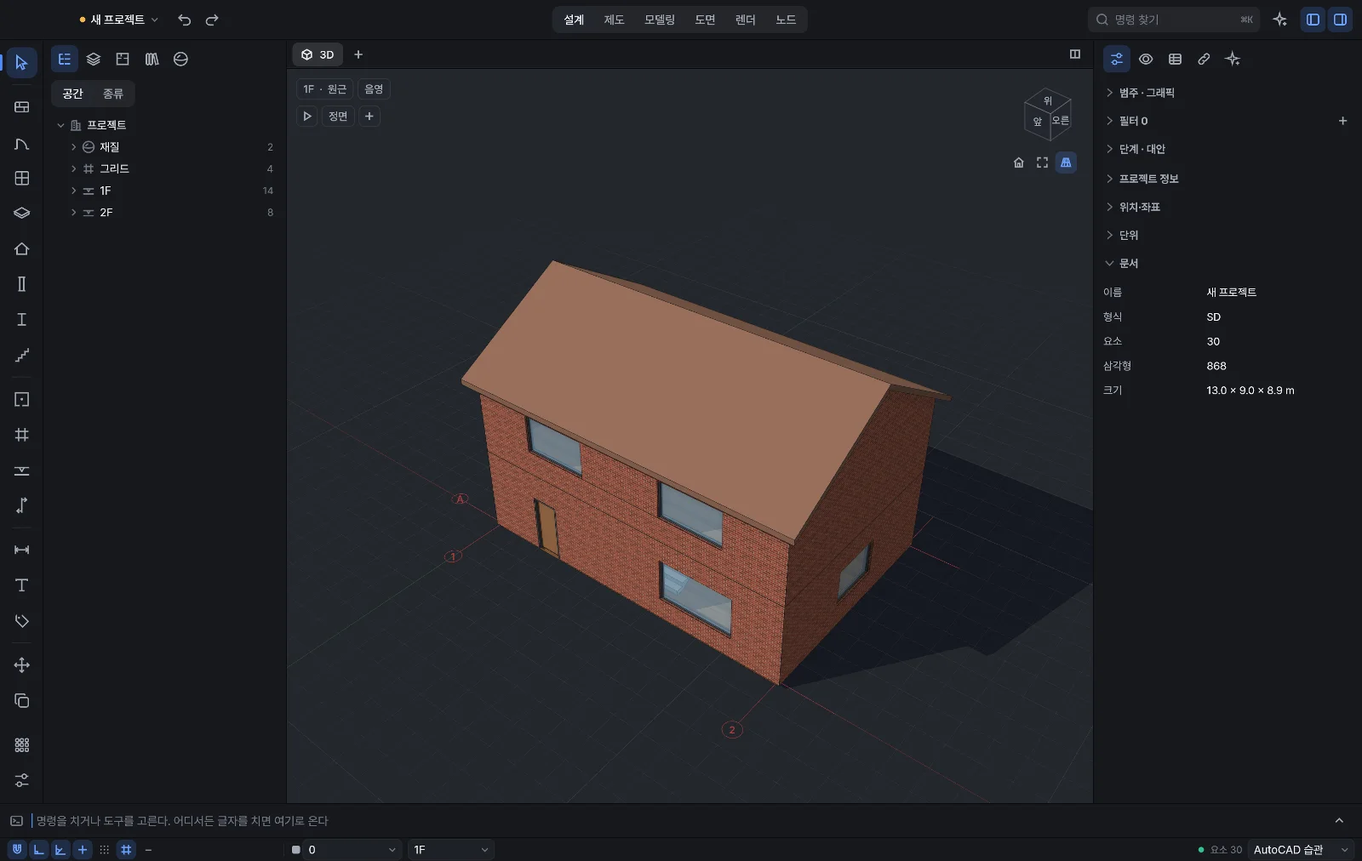
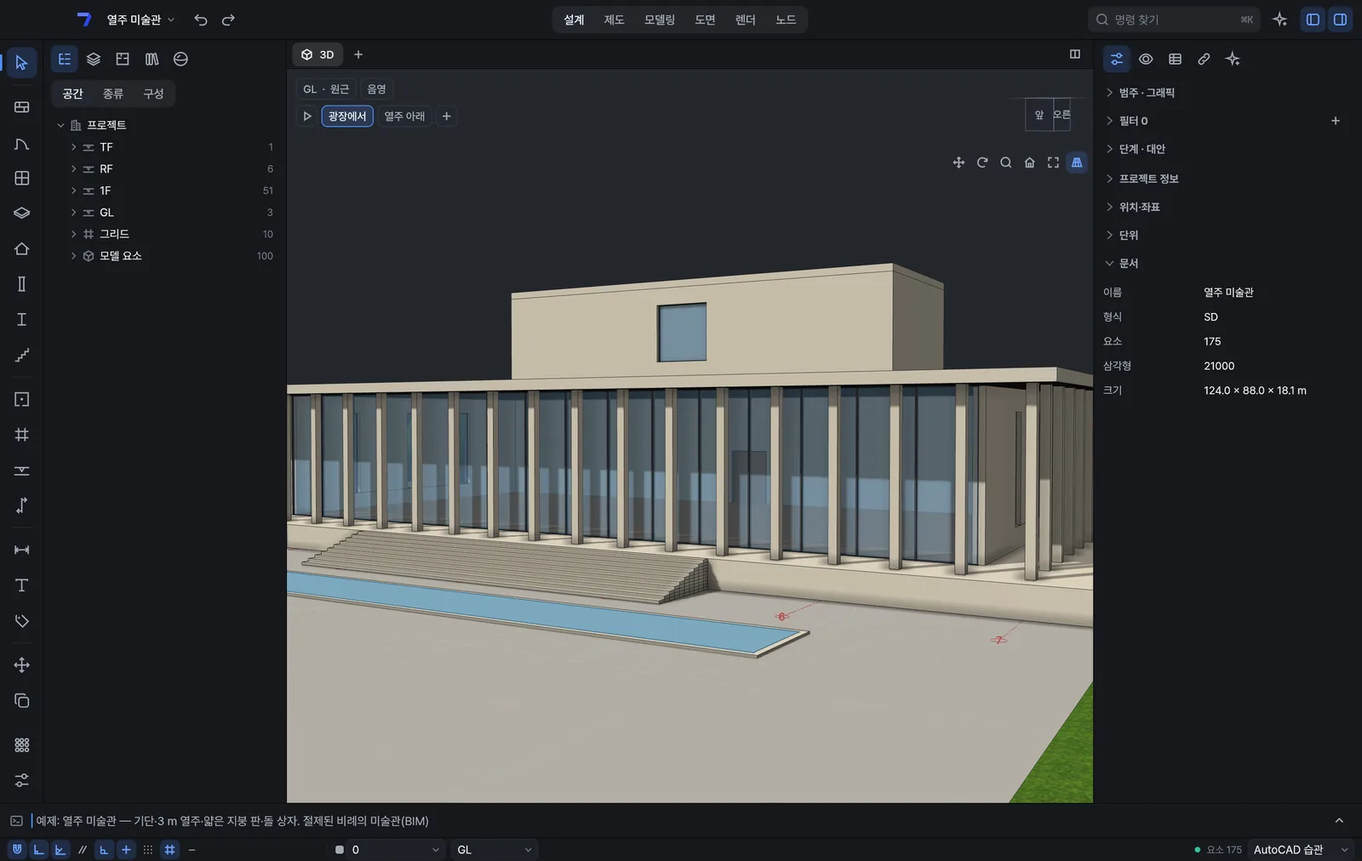
HyperSeven Office 서버 설정·홈페이지 (2026-11-09)

diff --git a/ja/cad.html b/ja/cad.html
@@ -7,10 +7,10 @@
   <meta name="viewport" content="width=device-width, initial-scale=1" />
   <meta name="color-scheme" content="light" />
   <meta name="theme-color" content="#ffffff" />
-  <title>HyperSeven CAD — 5つのソフトの代わりに、みんなのCADをひとつ（開発中）</title>
+  <title>HyperSeven CAD — 5つのソフトの代わりに、みんなのCADをひとつ（プレビュー）</title>
   <meta name="description" content="AutoCAD・SketchUp・Rhino・Revit・Archicadの作業とファイルを、ひとつのモデルで。誰でも無料で使える建築設計ツールになるHyperSeven CADを、いち早くご覧ください。" />
   <meta property="og:site_name" content="HyperSeven Labs" />
-  <meta property="og:title" content="HyperSeven CAD — 5つのソフトの代わりに、みんなのCADをひとつ（開発中）" />
+  <meta property="og:title" content="HyperSeven CAD — 5つのソフトの代わりに、みんなのCADをひとつ（プレビュー）" />
   <meta property="og:description" content="AutoCAD・SketchUp・Rhino・Revit・Archicadの作業とファイルを、ひとつのモデルで。誰でも無料で使える建築設計ツールになるHyperSeven CADを、いち早くご覧ください。" />
   <meta property="og:image" content="https://hyperseven.pages.dev/assets/og-ja.png" />
   <meta property="og:type" content="website" />
@@ -46,10 +46,22 @@
 <main>
     <section class="phero cad">
       <div class="wrap">
-        <div class="ptitle"><img src="../assets/brand/icon-cad.svg" alt="" width="60" height="60" /><div><b>HyperSeven CAD</b><span>図面 · 3D · 曲面 · ノード · BIM</span></div><span class="tag dev"><span class="dot"></span>開発中</span></div>
+        <div class="ptitle"><img src="../assets/brand/icon-cad.svg" alt="" width="60" height="60" /><div><b>HyperSeven CAD</b><span>図面 · 3D · 曲面 · ノード · BIM</span></div><span class="tag dev"><span class="dot"></span>プレビュー 0.1.0</span></div>
         <h1>5つのソフトの代わりに、<br />みんなのCADをひとつ<span class="blue">。</span></h1>
         <p class="lead">AutoCAD・SketchUp・Rhino・Revit・Archicadを行き来していた作業が、ひとつのモデルでつながります。図面からマス・曲面・ノード・BIMまで、誰でも無料で。</p>
-        <p class="draft">開発中の画面です。公開までに変わることがあります。</p>
+        <div class="get">
+          <div class="get-btns">
+            <div class="get-win get-mac">
+              <a class="btn os" href="https://github.com/dongyoun/hyperseven-cad/releases/download/v0.1.0/HyperSeven-CAD-0.1.0-arm64.dmg">
+                <svg viewBox="0 0 24 24" fill="none" stroke="currentColor" stroke-width="2" stroke-linecap="round" stroke-linejoin="round" aria-hidden="true"><path d="M12 3v12" /><path d="m7 10 5 5 5-5" /><path d="M4 19h16" /></svg>
+                <span>Mac用をダウンロード<small>0.1.0 プレビュー · 73MB</small></span>
+              </a>
+              <a class="get-exe" href="https://github.com/dongyoun/hyperseven-cad/releases/download/v0.1.0/HyperSeven-CAD-0.1.0-arm64.zip">.zipでダウンロード</a>
+            </div>
+          </div>
+          <p class="get-note">無料 · Apple Silicon搭載Mac · Appleの公証済みですぐに開けます · <a href="https://github.com/dongyoun/hyperseven-cad/releases">すべてのリリース</a></p>
+        </div>
+        <p class="draft">プレビュー版です。直しながら新しい版をこまめに出します。使いにくい点はアプリの <kbd>⌘⇧F</kbd> か <a href="https://github.com/dongyoun/hyperseven-cad/issues">GitHub</a> へ。</p>
       </div>
     </section>
 
@@ -90,19 +102,37 @@
     <section class="sec">
       <div class="wrap">
         <div class="sec-head">
-          <div class="kicker blue">開発中の画面</div>
+          <div class="kicker blue">プレビューの画面</div>
           <h2>図面はモデルから生まれる</h2>
-          <p>サンプルの家で見る、3D・平面図・コマンド検索。</p>
+          <p>サンプルで見る、3D・図面シート・コマンド検索。スタート画面の「サンプルを見る」から開けます。</p>
         </div>
-        <div class="window dark"><div class="bar"><i></i><i></i><i></i></div><img src="../assets/shots/cad-3d.webp" alt="HyperSeven CADの3D画面 — 切妻屋根のれんがの家と影、左に階の一覧、右にプロパティ" loading="lazy" width="1600" height="1012" /></div>
+        <div class="window dark"><div class="bar"><i></i><i></i><i></i></div><img src="../assets/shots/cad-3d.webp" alt="HyperSeven CADの3D画面 — 基壇の上に3 m間隔の列柱と薄い屋根スラブの美術館サンプル、左に階の一覧、右にプロパティ" loading="lazy" width="1600" height="1012" /></div>
         <div class="gallery" style="margin-top: 28px">
           <figure>
-            <div class="window dark"><div class="bar"><i></i><i></i><i></i></div><img src="../assets/shots/cad-plan.webp" alt="1階平面図 1:100 — 寸法、通り芯、室面積、建具記号がついたサンプルの家" loading="lazy" width="1600" height="1012" /></div>
-            <figcaption>1階平面図 1:100。寸法や建具記号、室面積はモデルから自動でつきます。</figcaption>
+            <div class="window dark"><div class="bar"><i></i><i></i><i></i></div><img src="../assets/shots/cad-plan.webp" alt="美術館サンプルのA1シート — 1階平面図・断面図・南と東の立面図" loading="lazy" width="1600" height="1012" /></div>
+            <figcaption>A1シート1枚に平面・断面・立面。モデルを直すと図面がついてきます。</figcaption>
           </figure>
           <figure>
             <div class="window dark"><div class="bar"><i></i><i></i><i></i></div><img src="../assets/shots/cad-palette.webp" alt="コマンド検索 — 壁に関するコマンドが英語名とショートカット付きで並ぶ" loading="lazy" width="1600" height="1012" /></div>
             <figcaption>コマンド検索 <kbd>⌘K</kbd>。韓国語でも英語のコマンド名でも探せます。</figcaption>
+          </figure>
+        </div>
+        <div class="gallery" style="margin-top: 28px">
+          <figure>
+            <div class="window dark"><div class="bar"><i></i><i></i><i></i></div><img src="../assets/shots/cad-office.webp" alt="0.9 m間隔の縦フィンと3つの大きな抜けがある36 m立方体のオフィス" loading="lazy" width="1600" height="1012" /></div>
+            <figcaption>フィンファサードのオフィス。階ごとに積んだBIM要素です。</figcaption>
+          </figure>
+          <figure>
+            <div class="window dark"><div class="bar"><i></i><i></i><i></i></div><img src="../assets/shots/cad-detail.webp" alt="ファサード断面詳細1:20 — 石張り・断熱・コンクリート壁、窓、パラペット、屋根の構成" loading="lazy" width="1600" height="1012" /></div>
+            <figcaption>ファサード断面詳細1:20。レイヤー・ハッチ・引出線・寸法。</figcaption>
+          </figure>
+          <figure>
+            <div class="window dark"><div class="bar"><i></i><i></i><i></i></div><img src="../assets/shots/cad-house.webp" alt="白いコンクリート壁とガラスで囲んだ中庭、薄い庇の平屋" loading="lazy" width="1600" height="1012" /></div>
+            <figcaption>中庭のある家。壁を動かすと床と屋根がついてきます。</figcaption>
+          </figure>
+          <figure>
+            <div class="window dark"><div class="bar"><i></i><i></i><i></i></div><img src="../assets/shots/cad-freeform.webp" alt="ゆるやかに波打つ薄い曲面屋根と細い柱、ガラスの部屋のパビリオン" loading="lazy" width="1600" height="1012" /></div>
+            <figcaption>曲面屋根のパビリオン。非定形も描けます。</figcaption>
           </figure>
         </div>
       </div>
@@ -162,8 +192,8 @@
         </div>
         <div class="card">
           <div class="kicker blue">いま</div>
-          <h3>まずはMacから</h3>
-          <p>Apple Silicon搭載Macから先に提供し、WindowsとLinuxが続きます。</p>
+          <h3>Mac用プレビューをどうぞ</h3>
+          <p>Apple Silicon搭載Mac用の0.1.0プレビューを今すぐ使えます。新しい版が出るとアプリが知らせます。WindowsとLinuxが続きます。</p>
         </div>
       </div>
       <div class="wrap">

diff --git a/cad.html b/cad.html
@@ -7,10 +7,10 @@
   <meta name="viewport" content="width=device-width, initial-scale=1" />
   <meta name="color-scheme" content="light" />
   <meta name="theme-color" content="#ffffff" />
-  <title>하이퍼세븐 캐드 — 다섯 개의 프로그램 대신, 모두의 캐드 하나 (개발 중)</title>
+  <title>하이퍼세븐 캐드 — 다섯 개의 프로그램 대신, 모두의 캐드 하나 (미리 보기)</title>
   <meta name="description" content="오토캐드·스케치업·라이노·레빗·아키캐드의 작업과 파일을 하나의 모델로. 누구나 무료로 쓰게 될 건축 설계 도구, 하이퍼세븐 캐드를 미리 만나 보세요." />
   <meta property="og:site_name" content="HyperSeven Labs" />
-  <meta property="og:title" content="하이퍼세븐 캐드 — 다섯 개의 프로그램 대신, 모두의 캐드 하나 (개발 중)" />
+  <meta property="og:title" content="하이퍼세븐 캐드 — 다섯 개의 프로그램 대신, 모두의 캐드 하나 (미리 보기)" />
   <meta property="og:description" content="오토캐드·스케치업·라이노·레빗·아키캐드의 작업과 파일을 하나의 모델로. 누구나 무료로 쓰게 될 건축 설계 도구, 하이퍼세븐 캐드를 미리 만나 보세요." />
   <meta property="og:image" content="https://hyperseven.pages.dev/assets/og.png" />
   <meta property="og:type" content="website" />
@@ -46,10 +46,22 @@
 <main>
     <section class="phero cad">
       <div class="wrap">
-        <div class="ptitle"><img src="assets/brand/icon-cad.svg" alt="" width="60" height="60" /><div><b>HyperSeven CAD</b><span>하이퍼세븐 캐드 · 도면 · 3D · 곡면 · 노드 · BIM</span></div><span class="tag dev"><span class="dot"></span>개발 중</span></div>
+        <div class="ptitle"><img src="assets/brand/icon-cad.svg" alt="" width="60" height="60" /><div><b>HyperSeven CAD</b><span>하이퍼세븐 캐드 · 도면 · 3D · 곡면 · 노드 · BIM</span></div><span class="tag dev"><span class="dot"></span>미리 보기 0.1.0</span></div>
         <h1>다섯 개의 프로그램 대신,<br />모두의 캐드 하나<span class="blue">.</span></h1>
         <p class="lead">오토캐드·스케치업·라이노·레빗·아키캐드를 오가던 작업이 하나의 모델로 이어집니다. 도면부터 BIM까지, 누구나 무료로.</p>
-        <p class="draft">개발 중인 화면입니다. 공개 전까지 바뀔 수 있습니다.</p>
+        <div class="get">
+          <div class="get-btns">
+            <div class="get-win get-mac">
+              <a class="btn os" href="https://github.com/dongyoun/hyperseven-cad/releases/download/v0.1.0/HyperSeven-CAD-0.1.0-arm64.dmg">
+                <svg viewBox="0 0 24 24" fill="none" stroke="currentColor" stroke-width="2" stroke-linecap="round" stroke-linejoin="round" aria-hidden="true"><path d="M12 3v12" /><path d="m7 10 5 5 5-5" /><path d="M4 19h16" /></svg>
+                <span>맥용 내려받기<small>0.1.0 미리 보기 · 73MB</small></span>
+              </a>
+              <a class="get-exe" href="https://github.com/dongyoun/hyperseven-cad/releases/download/v0.1.0/HyperSeven-CAD-0.1.0-arm64.zip">zip으로 받기</a>
+            </div>
+          </div>
+          <p class="get-note">무료 · Apple Silicon 맥 · 애플 공증을 받은 앱이라 바로 열립니다 · <a href="https://github.com/dongyoun/hyperseven-cad/releases">모든 판</a></p>
+        </div>
+        <p class="draft">미리 보기입니다. 고쳐 가며 자주 새 판을 냅니다. 불편한 점은 앱 안 <kbd>⌘⇧F</kbd>나 <a href="https://github.com/dongyoun/hyperseven-cad/issues">GitHub</a>에 남겨 주세요.</p>
       </div>
     </section>
 
@@ -90,19 +102,37 @@
     <section class="sec">
       <div class="wrap">
         <div class="sec-head">
-          <div class="kicker blue">개발 중인 화면</div>
+          <div class="kicker blue">미리 보기 화면</div>
           <h2>도면은 모델에서 나옵니다</h2>
-          <p>예제 주택으로 본 3D, 평면, 명령 찾기.</p>
+          <p>예제로 본 3D, 도면 시트, 명령 찾기. 시작 화면의 ‘예제 둘러보기’에서 열 수 있습니다.</p>
         </div>
-        <div class="window dark"><div class="bar"><i></i><i></i><i></i></div><img src="assets/shots/cad-3d.webp" alt="하이퍼세븐 캐드의 3D 화면 — 박공지붕 벽돌집 예제와 그림자, 왼쪽에 층 목록, 오른쪽에 속성 칸" loading="lazy" width="1600" height="1012" /></div>
+        <div class="window dark"><div class="bar"><i></i><i></i><i></i></div><img src="assets/shots/cad-3d.webp" alt="하이퍼세븐 캐드의 3D 화면 — 기단 위 3 m 간격 열주와 얇은 지붕 판의 미술관 예제, 왼쪽에 층 목록, 오른쪽에 속성 칸" loading="lazy" width="1600" height="1012" /></div>
         <div class="gallery" style="margin-top: 28px">
           <figure>
-            <div class="window dark"><div class="bar"><i></i><i></i><i></i></div><img src="assets/shots/cad-plan.webp" alt="1층 평면 1:100 — 치수, 그리드, 실 면적, 문과 창 기호가 붙은 예제 주택" loading="lazy" width="1600" height="1012" /></div>
-            <figcaption>1층 평면 1:100. 치수와 창호 기호, 실 면적이 모델에서 저절로 붙습니다.</figcaption>
+            <div class="window dark"><div class="bar"><i></i><i></i><i></i></div><img src="assets/shots/cad-plan.webp" alt="미술관 예제의 A1 시트 — 1층 평면, 단면, 남측·동측 입면" loading="lazy" width="1600" height="1012" /></div>
+            <figcaption>A1 시트 한 장에 평면·단면·입면. 모델을 고치면 도면이 따라옵니다.</figcaption>
           </figure>
           <figure>
             <div class="window dark"><div class="bar"><i></i><i></i><i></i></div><img src="assets/shots/cad-palette.webp" alt="명령 찾기 창 — '벽'을 치면 벽, 벽 윤곽, 벽 나누기 같은 명령이 영문 이름·단축키와 함께 나온다" loading="lazy" width="1600" height="1012" /></div>
             <figcaption>명령 찾기 <kbd>⌘K</kbd>. 한글로, 초성으로, 영문 명령 이름으로 찾습니다.</figcaption>
+          </figure>
+        </div>
+        <div class="gallery" style="margin-top: 28px">
+          <figure>
+            <div class="window dark"><div class="bar"><i></i><i></i><i></i></div><img src="assets/shots/cad-office.webp" alt="0.9 m 간격 세로 핀과 세 개의 비움이 있는 36 m 정육면체 오피스" loading="lazy" width="1600" height="1012" /></div>
+            <figcaption>핀 파사드 오피스. 층마다 쌓인 BIM 요소입니다.</figcaption>
+          </figure>
+          <figure>
+            <div class="window dark"><div class="bar"><i></i><i></i><i></i></div><img src="assets/shots/cad-detail.webp" alt="파사드 단면 상세 1:20 — 돌 붙임·단열·콘크리트 벽, 창, 난간벽, 지붕 층 구성" loading="lazy" width="1600" height="1012" /></div>
+            <figcaption>파사드 단면 상세 1:20. 레이어·해치·지시선·치수.</figcaption>
+          </figure>
+          <figure>
+            <div class="window dark"><div class="bar"><i></i><i></i><i></i></div><img src="assets/shots/cad-house.webp" alt="흰 콘크리트 벽과 유리로 둘러싼 중정, 얇은 처마의 단층 주택" loading="lazy" width="1600" height="1012" /></div>
+            <figcaption>중정 주택. 벽을 옮기면 바닥과 지붕이 따라옵니다.</figcaption>
+          </figure>
+          <figure>
+            <div class="window dark"><div class="bar"><i></i><i></i><i></i></div><img src="assets/shots/cad-freeform.webp" alt="느리게 물결치는 얇은 곡면 지붕과 가는 기둥, 유리 방이 있는 파빌리온" loading="lazy" width="1600" height="1012" /></div>
+            <figcaption>곡면 지붕 파빌리온. 비정형도 그립니다.</figcaption>
           </figure>
         </div>
       </div>
@@ -162,8 +192,8 @@
         </div>
         <div class="card">
           <div class="kicker blue">지금</div>
-          <h3>맥에서 먼저 선보입니다</h3>
-          <p>Apple Silicon 맥에서 먼저 선보이고, 윈도우와 리눅스가 뒤를 잇습니다.</p>
+          <h3>맥용 미리 보기를 받으세요</h3>
+          <p>Apple Silicon 맥용 0.1.0 미리 보기를 지금 받습니다. 새 판이 나오면 앱이 알려 줍니다. 윈도우와 리눅스가 뒤를 잇습니다.</p>
         </div>
       </div>
       <div class="wrap">

diff --git a/en/cad.html b/en/cad.html
@@ -7,10 +7,10 @@
   <meta name="viewport" content="width=device-width, initial-scale=1" />
   <meta name="color-scheme" content="light" />
   <meta name="theme-color" content="#ffffff" />
-  <title>HyperSeven CAD — Instead of five programs, one CAD for everyone (in development)</title>
+  <title>HyperSeven CAD — Instead of five programs, one CAD for everyone (preview)</title>
   <meta name="description" content="AutoCAD, SketchUp, Rhino, Revit and Archicad work and files on one model. Take an early look at HyperSeven CAD, an architectural design tool that will be free for everyone." />
   <meta property="og:site_name" content="HyperSeven Labs" />
-  <meta property="og:title" content="HyperSeven CAD — Instead of five programs, one CAD for everyone (in development)" />
+  <meta property="og:title" content="HyperSeven CAD — Instead of five programs, one CAD for everyone (preview)" />
   <meta property="og:description" content="AutoCAD, SketchUp, Rhino, Revit and Archicad work and files on one model. Take an early look at HyperSeven CAD, an architectural design tool that will be free for everyone." />
   <meta property="og:image" content="https://hyperseven.pages.dev/assets/og-en.png" />
   <meta property="og:type" content="website" />
@@ -46,10 +46,22 @@
 <main>
     <section class="phero cad">
       <div class="wrap">
-        <div class="ptitle"><img src="../assets/brand/icon-cad.svg" alt="" width="60" height="60" /><div><b>HyperSeven CAD</b><span>Drawings · 3D · Surfaces · Nodes · BIM</span></div><span class="tag dev"><span class="dot"></span>In development</span></div>
+        <div class="ptitle"><img src="../assets/brand/icon-cad.svg" alt="" width="60" height="60" /><div><b>HyperSeven CAD</b><span>Drawings · 3D · Surfaces · Nodes · BIM</span></div><span class="tag dev"><span class="dot"></span>Preview 0.1.0</span></div>
         <h1>Instead of five programs,<br />one CAD for everyone<span class="blue">.</span></h1>
         <p class="lead">Work that bounced between AutoCAD, SketchUp, Rhino, Revit and Archicad now flows through one model. From drawings to masses, surfaces, nodes and BIM, free for everyone.</p>
-        <p class="draft">In development. Details may change before release.</p>
+        <div class="get">
+          <div class="get-btns">
+            <div class="get-win get-mac">
+              <a class="btn os" href="https://github.com/dongyoun/hyperseven-cad/releases/download/v0.1.0/HyperSeven-CAD-0.1.0-arm64.dmg">
+                <svg viewBox="0 0 24 24" fill="none" stroke="currentColor" stroke-width="2" stroke-linecap="round" stroke-linejoin="round" aria-hidden="true"><path d="M12 3v12" /><path d="m7 10 5 5 5-5" /><path d="M4 19h16" /></svg>
+                <span>Download for Mac<small>0.1.0 preview · 73MB</small></span>
+              </a>
+              <a class="get-exe" href="https://github.com/dongyoun/hyperseven-cad/releases/download/v0.1.0/HyperSeven-CAD-0.1.0-arm64.zip">Download .zip</a>
+            </div>
+          </div>
+          <p class="get-note">Free · Apple Silicon Macs · Notarized by Apple, opens right away · <a href="https://github.com/dongyoun/hyperseven-cad/releases">All releases</a></p>
+        </div>
+        <p class="draft">This is a preview — we fix things and ship new versions often. Tell us what gets in your way with <kbd>⌘⇧F</kbd> in the app or on <a href="https://github.com/dongyoun/hyperseven-cad/issues">GitHub</a>.</p>
       </div>
     </section>
 
@@ -90,19 +102,37 @@
     <section class="sec">
       <div class="wrap">
         <div class="sec-head">
-          <div class="kicker blue">In development</div>
+          <div class="kicker blue">Preview</div>
           <h2>Drawings come from the model</h2>
-          <p>One sample house, seen in 3D, in plan and through command search.</p>
+          <p>Samples seen in 3D, on a drawing sheet and through command search. Open them from “Browse samples” on the start screen.</p>
         </div>
-        <div class="window dark"><div class="bar"><i></i><i></i><i></i></div><img src="../assets/shots/cad-3d.webp" alt="HyperSeven CAD in 3D — a sample brick house with a gable roof and shadows, levels on the left and properties on the right" loading="lazy" width="1600" height="1012" /></div>
+        <div class="window dark"><div class="bar"><i></i><i></i><i></i></div><img src="../assets/shots/cad-3d.webp" alt="HyperSeven CAD in 3D — a sample museum with a 3 m colonnade on a plinth under a thin roof slab, levels on the left and properties on the right" loading="lazy" width="1600" height="1012" /></div>
         <div class="gallery" style="margin-top: 28px">
           <figure>
-            <div class="window dark"><div class="bar"><i></i><i></i><i></i></div><img src="../assets/shots/cad-plan.webp" alt="Ground floor plan at 1:100 with dimensions, grid, room areas and door and window tags" loading="lazy" width="1600" height="1012" /></div>
-            <figcaption>Ground floor plan at 1:100. Dimensions, door and window tags and room areas come straight from the model.</figcaption>
+            <div class="window dark"><div class="bar"><i></i><i></i><i></i></div><img src="../assets/shots/cad-plan.webp" alt="A1 sheet of the museum sample — ground floor plan, section, south and east elevations" loading="lazy" width="1600" height="1012" /></div>
+            <figcaption>Plan, section and elevations on one A1 sheet. Change the model and the drawings follow.</figcaption>
           </figure>
           <figure>
             <div class="window dark"><div class="bar"><i></i><i></i><i></i></div><img src="../assets/shots/cad-palette.webp" alt="Command search listing wall commands with their English names and shortcuts" loading="lazy" width="1600" height="1012" /></div>
             <figcaption>Command search <kbd>⌘K</kbd>. Find commands in Korean, by initial consonants or by their English names.</figcaption>
+          </figure>
+        </div>
+        <div class="gallery" style="margin-top: 28px">
+          <figure>
+            <div class="window dark"><div class="bar"><i></i><i></i><i></i></div><img src="../assets/shots/cad-office.webp" alt="A 36 m cube office with vertical fins every 0.9 m and three large voids" loading="lazy" width="1600" height="1012" /></div>
+            <figcaption>Fin-facade office, built floor by floor from BIM elements.</figcaption>
+          </figure>
+          <figure>
+            <div class="window dark"><div class="bar"><i></i><i></i><i></i></div><img src="../assets/shots/cad-detail.webp" alt="Facade section detail at 1:20 — stone cladding, insulation, concrete wall, window, parapet and roof build-up" loading="lazy" width="1600" height="1012" /></div>
+            <figcaption>Facade section detail at 1:20 with layers, hatches, leaders and dimensions.</figcaption>
+          </figure>
+          <figure>
+            <div class="window dark"><div class="bar"><i></i><i></i><i></i></div><img src="../assets/shots/cad-house.webp" alt="A single-storey house with white concrete walls around a glazed courtyard and a thin eave" loading="lazy" width="1600" height="1012" /></div>
+            <figcaption>Courtyard house. Move a wall and the floor and roof follow.</figcaption>
+          </figure>
+          <figure>
+            <div class="window dark"><div class="bar"><i></i><i></i><i></i></div><img src="../assets/shots/cad-freeform.webp" alt="A pavilion with a thin, gently undulating roof on slender columns over a glass room" loading="lazy" width="1600" height="1012" /></div>
+            <figcaption>Freeform roof pavilion. Free forms work too.</figcaption>
           </figure>
         </div>
       </div>
@@ -162,8 +192,8 @@
         </div>
         <div class="card">
           <div class="kicker blue">Now</div>
-          <h3>Mac first</h3>
-          <p>Coming first to Apple Silicon Macs, with Windows and Linux to follow.</p>
+          <h3>Get the Mac preview</h3>
+          <p>The 0.1.0 preview for Apple Silicon Macs is available now, and the app tells you when a new version is out. Windows and Linux will follow.</p>
         </div>
       </div>
       <div class="wrap">

diff --git a/privacy.html b/privacy.html
@@ -69,6 +69,8 @@
           <h3>오류·불편 신호 자동 알림 (끌 수 있음)</h3>
           <p>앱을 몇 분 쓴 뒤 한 번 안내하고, 끄지 않으면 하루 한 번 묶어 보냅니다. 보내는 것은 앱 버전·운영체제·언어, 오류 기록, 문서 구조 수(구역·문단·표·개체 — 글 없음), 최근 명령 이름, 그리고 불편 신호(명령 찾기에서 찾지 못한 말, 아무 명령도 없던 단축키, 곧바로 되돌린 명령, 쓸 수 없었던 명령, 열지 못한 파일 형식 등의 종류별 횟수)입니다. 문서 글·파일 이름·경로는 보내지 않습니다. 실제로 보내는 내용은 환경 설정 › 사용자의 [보내는 내용 보기]에서 그대로 볼 수 있고, 같은 곳에서 끕니다.</p>
           <p>받은 정보는 다음 버전을 고치는 데만 쓰고, IP 주소는 저장하지 않습니다(너무 잦은 요청을 막는 데에만 한 시간 동안 섞은 값으로 씁니다).</p>
+          <h3>하이퍼세븐 캐드</h3>
+          <p>하이퍼세븐 캐드도 같은 방식입니다. 시작할 때 홈페이지의 공개 안내 파일(<code>latest-cad.json</code>) 하나를 받아 새 판을 확인합니다. 오류·불편 신호 자동 알림은 처음 쓸 때(또는 문제가 막 생긴 순간) 한 번 묻고, 동의한 경우에만 보냅니다. 보내는 것은 판·운영체제·최근 명령 이름·오류 글(경로는 지움)·불편 신호의 종류별 횟수와 도면의 요소 수뿐이고, 도면 내용·파일 이름·경로는 보내지 않습니다. 설정 › 일반 › 함께 고치기에서 보내는 내용을 보고 끕니다. 불편 신고(<kbd>⌘⇧F</kbd>)의 화면 그림은 이 컴퓨터에만 남습니다.</p>
         </section>
         <section>
           <h2>이 컴퓨터에 저장하는 것</h2>

diff --git a/en/privacy.html b/en/privacy.html
@@ -69,6 +69,8 @@
           <h3>Automatic error and friction reports (can be turned off)</h3>
           <p>After a few minutes of use the app tells you about this once; unless you turn it off, it sends a bundle once a day. It includes the app version, OS and language, error logs, document structure counts (sections, paragraphs, tables, objects — no text), recent command names, and friction signals (counts of things like searches in Find Command that found nothing, shortcuts that did nothing, commands undone right away, commands that weren't available, and file types that failed to open). Document text, file names and paths are never sent. You can see exactly what is sent, and turn it off, in Preferences › User › See what is sent.</p>
           <p>This information is used only to fix the next version. IP addresses are not stored (a hashed value is kept for one hour only to prevent abuse).</p>
+          <h3>HyperSeven CAD</h3>
+          <p>HyperSeven CAD works the same way. At start it fetches one public file from the website (<code>latest-cad.json</code>) to check for a new version. Automatic error and friction reports are offered once — the first time you use the app, or right after something goes wrong — and are sent only if you agree. They contain the version, OS, recent command names, error messages (with paths removed), counts of friction signals and the number of elements in the drawing; drawing content, file names and paths are never sent. See what is sent and turn it off in Settings › General › Fix it together. Screenshots from Feedback (<kbd>⌘⇧F</kbd>) stay on your computer.</p>
         </section>
         <section>
           <h2>What stays on your computer</h2>
